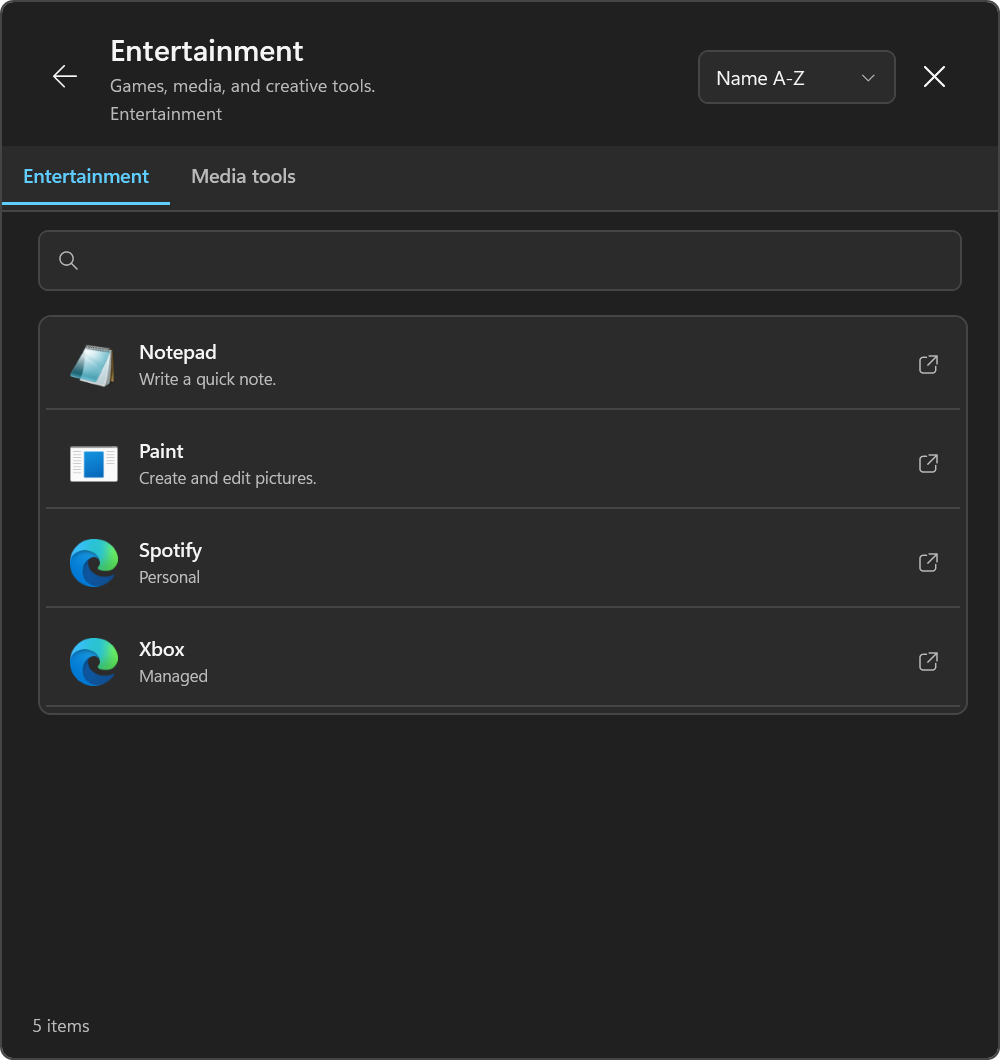
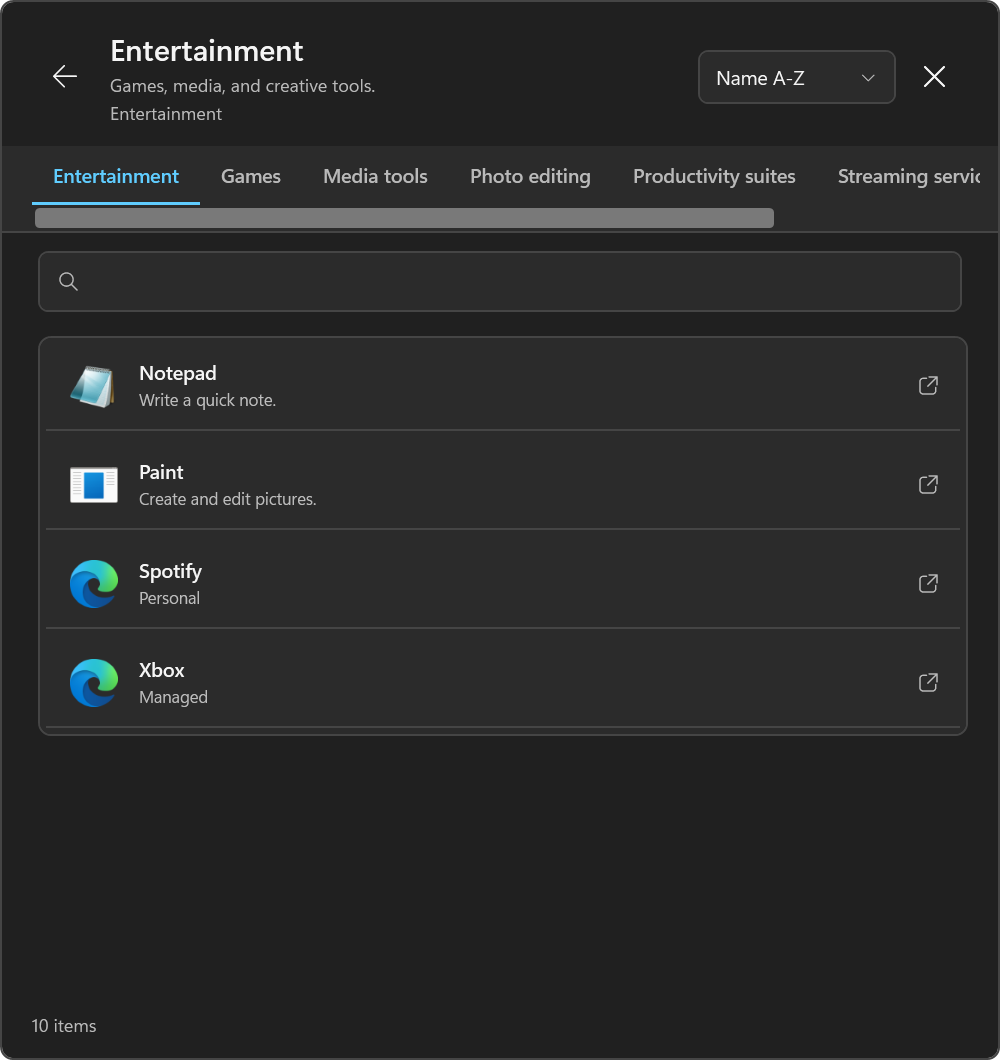
fix(launcher): stop the TabbedList tab strip from clipping its labels
The strip had a fixed 44px height while its template hosted a horizontal scrollbar, so an Entry Root with enough Menu Folders left no room for tab text. Size the strip to content, lay tabs out in one scrollable row, theme the window scrollbars, and exercise tab overflow in the capture fixture.

diff --git a/.memory-bank/progress.md b/.memory-bank/progress.md
@@ -119,6 +119,13 @@ release remains gated by external environment evidence.
   example configuration, and operator docs, and renamed the Grid screenshot to
   `launcher-grid.png` so the capture tool derives each file name from its
   layout.
+- 2026-07-29: Fixed the `TabbedList` tab strip rendering blank against real
+  content. The strip was pinned to 44 device-independent pixels while its
+  template hosted a horizontal scrollbar, so the 30 Menu Folders under
+  `Programs` left about four pixels for labels. The strip now sizes to
+  content and lays tabs out in one scrollable row, the window themes its
+  scrollbars, and the capture fixture gained Menu Folders so the checked-in
+  screenshot exercises tab overflow.
 
 ## Stable capabilities
 

diff --git a/.memory-bank/systemPatterns.md b/.memory-bank/systemPatterns.md
@@ -20,9 +20,9 @@ interactive users.
 Implementation adds a current-user named-pipe activation channel, bounded
 versioned icon cache, presentation-only preference file, structured Health
 Findings, diagnostics, WPF/offline validation, and tested layout helpers.
-`TabbedList` is the default Launcher Layout, projecting snapshots into tabs
-and rows; `Grid` stays selectable. Runtime artifacts have no external
-dependency. Launcher controls use themed XAML with paired high-contrast colors.
+`TabbedList` is the default Launcher Layout; `Grid` stays selectable. Runtime
+artifacts have no external dependency. Launcher controls use themed XAML with
+paired high-contrast colors, and scrollbar-hosting strips size to content.
 
 ## Documentation
 
